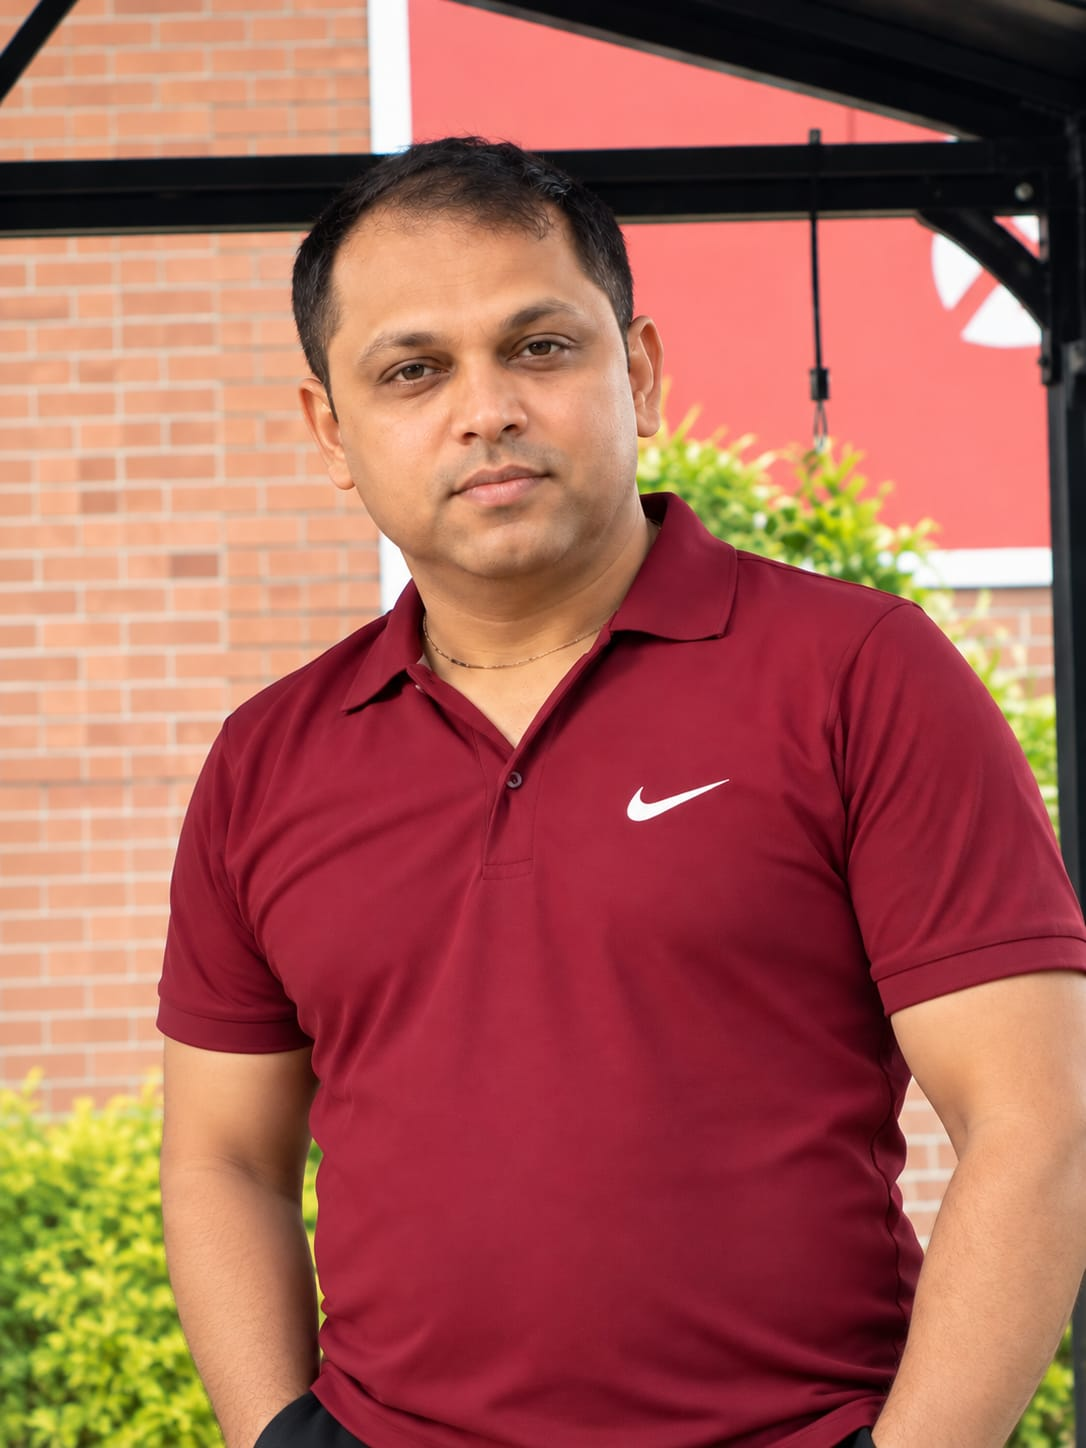
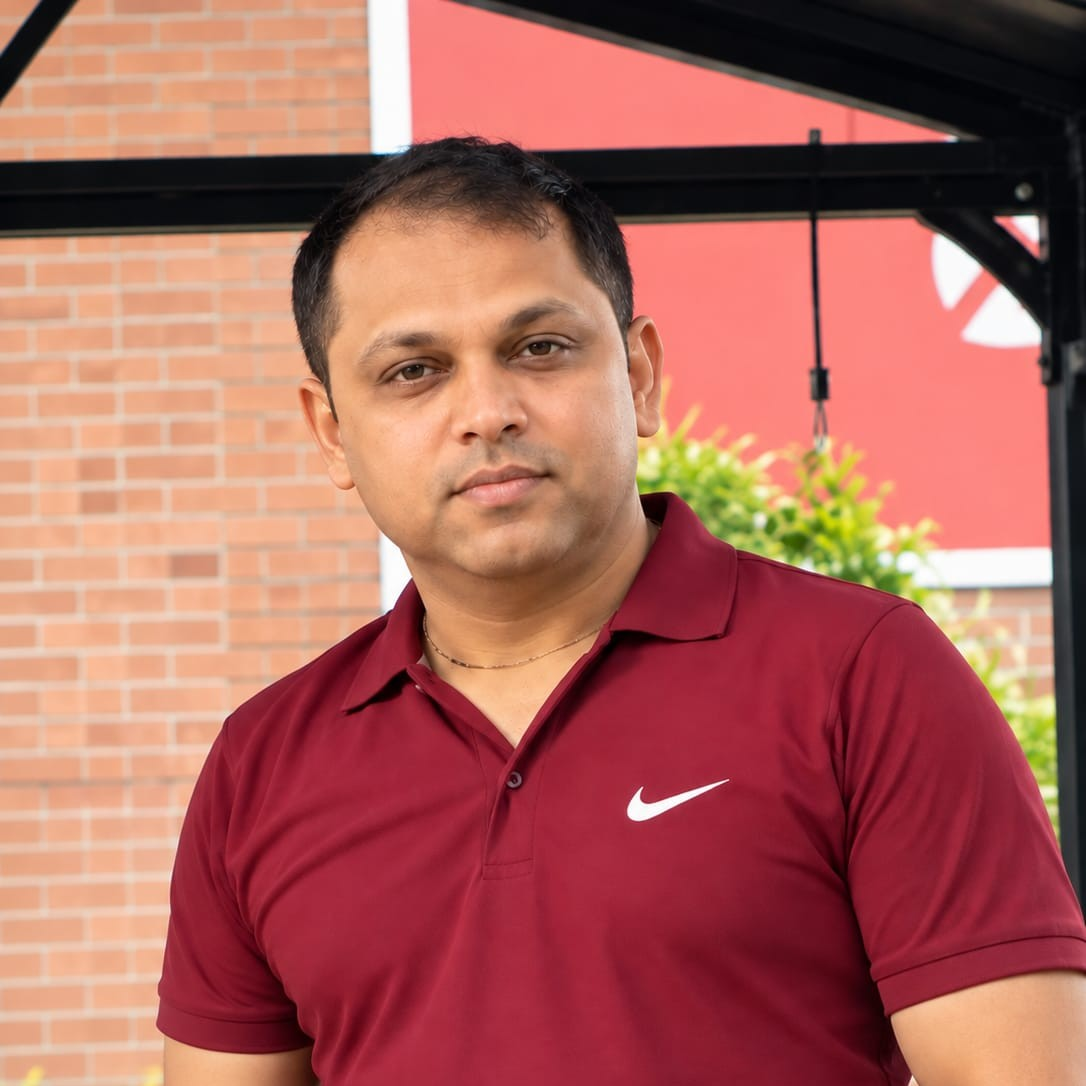
Update Tarkarli section images and owner photo resolution

diff --git a/index.html b/index.html
@@ -188,11 +188,11 @@
             <div class="about-grid reveal">
                 <div class="about-images">
                     <div class="about-img-primary" id="aboutImgPrimary">
-                        <img src="photos/LOBBY.jpeg" alt="Resort Lobby"
+                        <img src="photos/tarkarli.jpeg" alt="Tarkarli"
                             style="width: 100%; height: 100%; object-fit: cover; border-radius: inherit;">
                     </div>
                     <div class="about-img-secondary" id="aboutImgSecondary">
-                        <img src="photos/RECEPTION.jpeg" alt="Reception Area"
+                        <img src="photos/tarkarli2.jpeg" alt="Tarkarli Beach"
                             style="width: 100%; height: 100%; object-fit: cover; border-radius: inherit;">
                     </div>
                 </div>
@@ -250,9 +250,9 @@
                         Malvani culinary experiences.</p>
                 </div>
                 <div class="about-images">
-                    <div class="about-img-primary" style="aspect-ratio: 4/5;">
+                    <div class="about-img-primary">
                         <img src="photos/owner.jpeg" alt="Owner"
-                            style="width: 100%; height: 100%; object-fit: cover; border-radius: inherit;">
+                            style="width: 100%; height: auto; border-radius: inherit;">
                     </div>
                 </div>
             </div>
